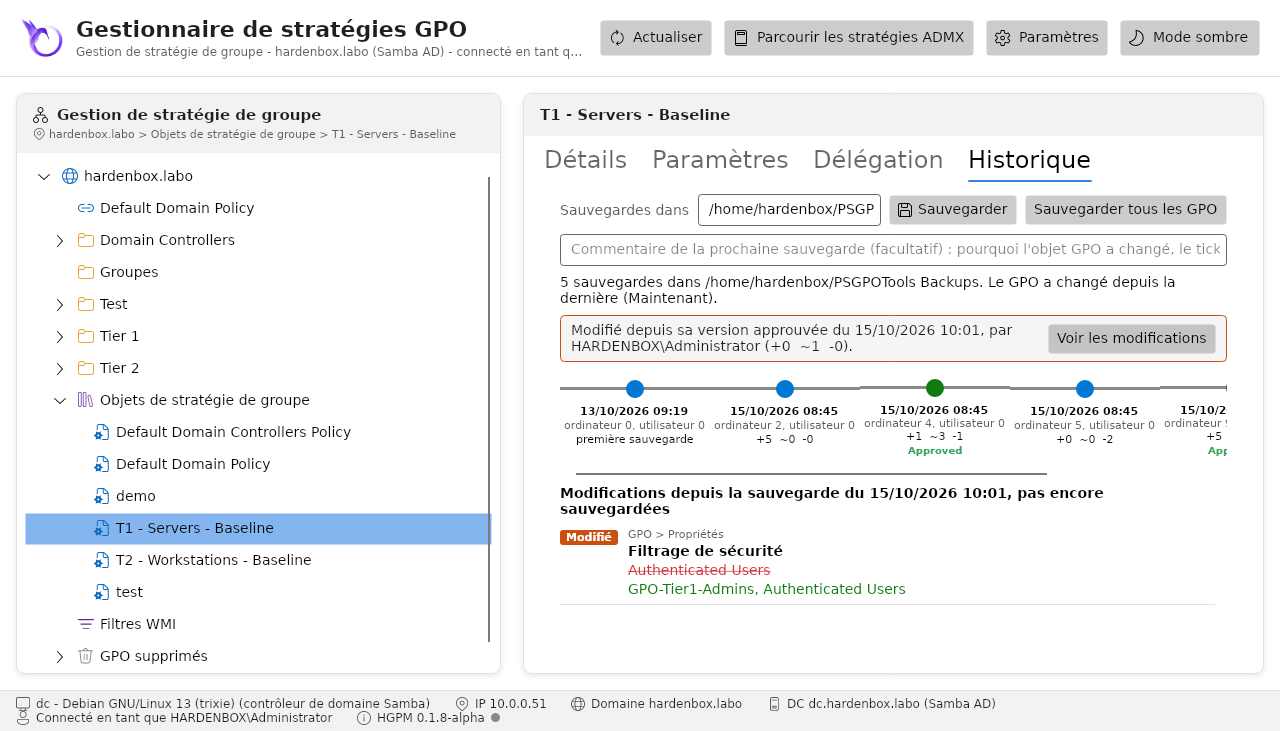
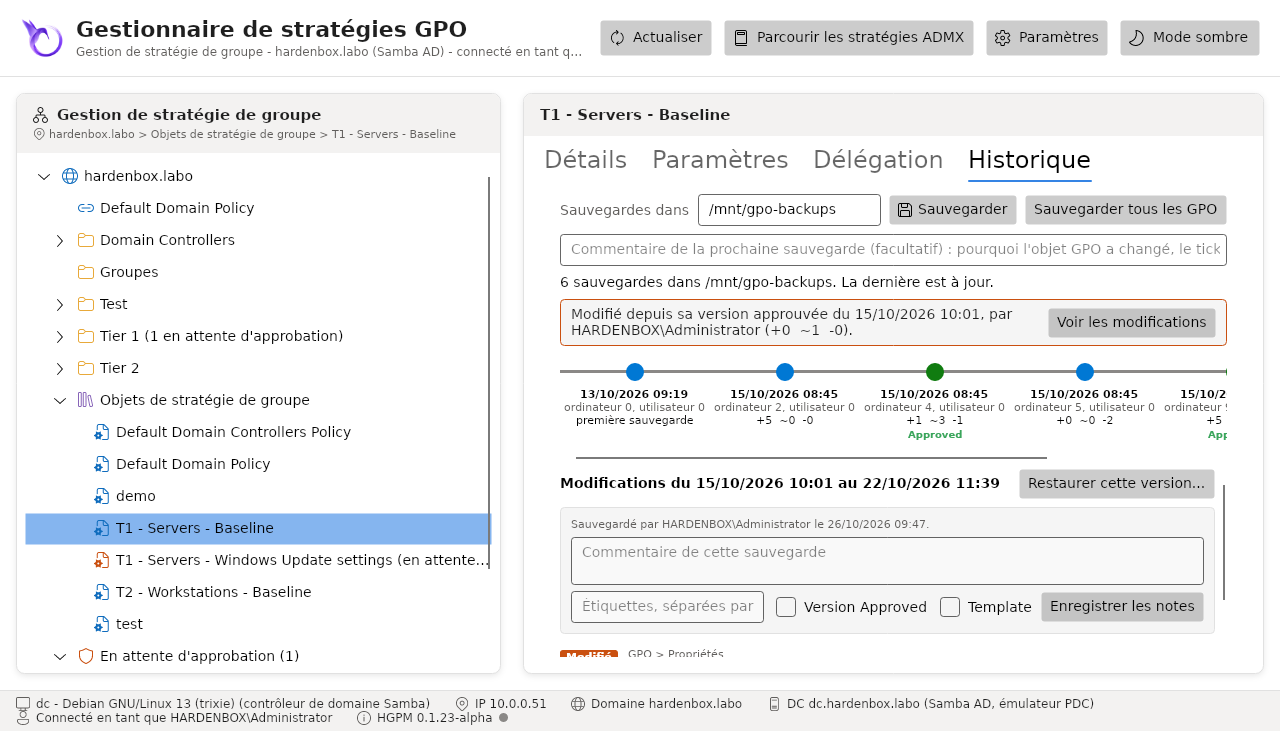
History tab: the line of the timeline straight, the nodes aligned at the top; the History screenshots taken again

diff --git a/CHANGELOG.md b/CHANGELOG.md
@@ -1,5 +1,11 @@
 # HGPM Release History
 
+## Unreleased
+
+### Fixed
+
+* History tab: the line of the timeline was not straight, the backups with a label (Approved) a little higher than the others: the nodes are now aligned at the top
+
 ## 0.1.23 - alpha
 
 ### Security
